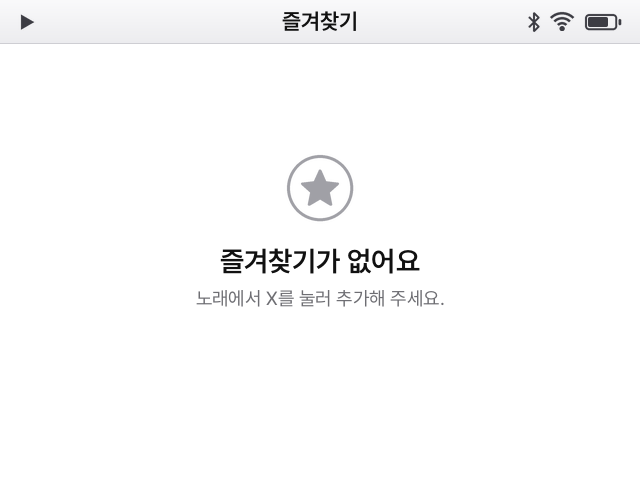
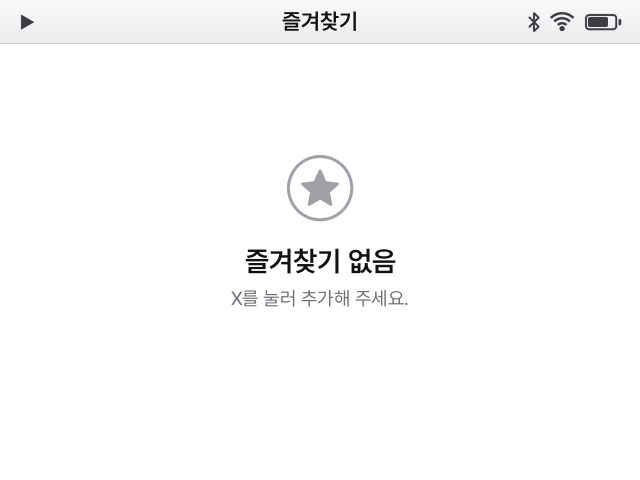
isopod: notices read as one family, and the radio says when it is Wi-Fi it lacks
In Korean an empty screen, a failure and a notice each had their own way of
ending a sentence. They now end on a noun: 음악 없음, 연결할 수 없음,
네트워크 지움, {n}분 뒤 음악 정지. The line under an empty library names only
the folder, and one line serves the favorites of songs and of stations. English
titles are capitalised alike.

A radio list, a search or a station that cannot be reached says Wi-Fi 연결 필요
when no network is joined, and 연결할 수 없음 when one is and nothing answers.

The 14 screens of docs/ui whose words changed were taken again, with the sheets
of their four tours.

Changed region(s): [[0.3125, 0.5, 0.6875, 0.6562]]

diff --git a/isopod/daemon/isopod/i18n.py b/isopod/daemon/isopod/i18n.py
@@ -17,49 +17,48 @@ STRINGS = {
     "all_songs": ("모든 노래", "All Songs"),
     "unknown_artist": ("알 수 없는 아티스트", "Unknown Artist"),
     "unknown_album": ("알 수 없는 앨범", "Unknown Album"),
-    "no_music_title": ("음악이 없어요", "No Music"),
-    "no_music_text": ("두 번째 SD 카드의 music 폴더에 음악을 넣어 주세요.",
-                      "Copy songs into the music folder of a second SD card."),
-    "empty_list": ("항목이 없어요", "Nothing Here"),
+    "no_music_title": ("음악 없음", "No Music"),
+    "no_music_text": ("music 폴더에 넣어 주세요.", "Copy songs into the music folder."),
+    "empty_list": ("항목 없음", "Nothing Here"),
     "play_next": ("다음에 재생", "Play Next"),
     "add_to_up_next": ("다음 재생 목록에 추가", "Add to Up Next"),
     "added_up_next": ("다음 재생에 추가됨", "Added to Up Next"),
     "go_to_album": ("앨범으로 이동", "Go to Album"),
     "favorites": ("즐겨찾기", "Favorites"),
     "favorite": ("즐겨찾기", "Favorite"),
-    "no_favorites_title": ("즐겨찾기가 없어요", "No Favorites"),
-    "no_favorites_text": ("노래에서 X를 눌러 추가해 주세요.", "Press X on a song to add it."),
+    "no_favorites_title": ("즐겨찾기 없음", "No Favorites"),
+    "no_favorites_text": ("X를 눌러 추가해 주세요.", "Press X to add one."),
 
-    "nothing_playing": ("재생 중인 항목이 없어요", "Nothing Playing"),
-    "no_lyrics": ("가사가 없어요", "No Lyrics"),
+    "nothing_playing": ("재생 중인 항목 없음", "Nothing Playing"),
+    "no_lyrics": ("가사 없음", "No Lyrics"),
     "shuffle": ("셔플", "Shuffle"),
     "repeat": ("반복", "Repeat"),
     "repeat_one": ("한 곡 반복", "Repeat One"),
 
     "search": ("검색", "Search"),
-    "no_results": ("결과가 없어요", "No Results"),
+    "no_results": ("결과 없음", "No Results"),
     "search_for": ("‘{q}’ 검색", "Search for “{q}”"),
     "search_music_prompt": ("아티스트, 앨범, 노래", "Artists, albums, songs"),
     "cover_flow": ("커버 플로우", "Cover Flow"),
     "sleep_timer": ("잠자기 타이머", "Sleep Timer"),
-    "sleep_timer_set": ("{n}분 뒤에 음악을 멈춰요", "Music stops in {n} min"),
+    "sleep_timer_set": ("{n}분 뒤 음악 정지", "Music Stops in {n} min"),
     "one_hour": ("1시간", "1 hour"),
     "battery_low": ("배터리 {n}% 남음", "{n}% Battery Remaining"),
 
     "popular": ("인기", "Popular"),
     "countries": ("국가", "Countries"),
     "search_radio_prompt": ("방송 이름", "Station name"),
-    "no_station_favorites_text": ("방송에서 X를 눌러 추가해 주세요.", "Press X on a station to add it."),
-    "radio_unreachable": ("연결할 수 없어요", "Couldn’t Connect"),
+    "radio_unreachable": ("연결할 수 없음", "Couldn’t Connect"),
+    "wifi_needed": ("Wi-Fi 연결 필요", "Wi-Fi Needed"),
     "live": ("라이브", "Live"),
 
-    "no_videos_title": ("비디오가 없어요", "No Videos"),
-    "no_videos_text": ("videos 폴더에 동영상을 넣어 주세요.", "Copy movies into the videos folder."),
-    "no_books_title": ("책이 없어요", "No Books"),
-    "no_books_text": ("books 폴더에 책을 넣어 주세요.", "Copy books into the books folder."),
+    "no_videos_title": ("비디오 없음", "No Videos"),
+    "no_videos_text": ("videos 폴더에 넣어 주세요.", "Copy movies into the videos folder."),
+    "no_books_title": ("책 없음", "No Books"),
+    "no_books_text": ("books 폴더에 넣어 주세요.", "Copy books into the books folder."),
     "opening": ("여는 중…", "Opening…"),
     "close_app": ("닫기", "Close"),
-    "app_failed": ("{name} 앱을 열 수 없어요", "Couldn’t Open {name}"),
+    "app_failed": ("{name} 열 수 없음", "Couldn’t Open {name}"),
 
     "wifi": ("Wi-Fi", "Wi-Fi"),
     "bluetooth": ("블루투스", "Bluetooth"),
@@ -74,19 +73,19 @@ STRINGS = {
     "searching": ("찾는 중…", "Searching…"),
 
     "saved_networks": ("저장된 네트워크", "Saved Networks"),
-    "no_saved_networks": ("저장된 네트워크가 없어요", "No Saved Networks"),
+    "no_saved_networks": ("저장된 네트워크 없음", "No Saved Networks"),
     "password_for": ("‘{ssid}’ 암호", "Password for “{ssid}”"),
     "wifi_connected": ("{ssid}에 연결됨", "Connected to {ssid}"),
-    "wifi_failed": ("{ssid}에 연결할 수 없어요", "Couldn’t join {ssid}"),
+    "wifi_failed": ("{ssid}에 연결할 수 없음", "Couldn’t Join {ssid}"),
     "forget": ("지우기", "Forget"),
-    "forgot_network": ("네트워크를 지웠어요", "Network Forgotten"),
+    "forgot_network": ("네트워크 지움", "Network Forgotten"),
 
     "my_devices": ("내 기기", "My Devices"),
     "other_devices": ("다른 기기", "Other Devices"),
     "bt_connected": ("{name} 연결됨", "{name} Connected"),
     "bt_disconnected": ("{name} 연결 끊김", "{name} Disconnected"),
-    "bt_failed": ("{name}에 연결할 수 없어요", "Couldn’t connect {name}"),
-    "forgot_device": ("기기를 지웠어요", "Device Forgotten"),
+    "bt_failed": ("{name}에 연결할 수 없음", "Couldn’t Connect {name}"),
+    "forgot_device": ("기기 지움", "Device Forgotten"),
     "connect": ("연결", "Connect"),
     "disconnect": ("연결 해제", "Disconnect"),
 

diff --git a/isopod/daemon/tests/test_protocols.py b/isopod/daemon/tests/test_protocols.py
@@ -567,8 +567,9 @@ class RadioPagesTest(unittest.IsolatedAsyncioTestCase):
         app.radio = Radio(d, d, directory=self.stations, download=lambda url: b"")
         app.radio.changed = lambda: app.page_changed("/radio")
         app.music.station_favorite = lambda station: app.radio.is_favorite(station.get("uuid"))
-        app.music.stream_failed = lambda: app.toast(app.t("radio_unreachable"))
         self.pages = Pages(app)
+        app.music.stream_failed = lambda: app.toast(self.pages.unreachable())
+        app.state.data["wifi"]["ssid"] = "Home"
         app.music.step_station = self.pages.step_station
         self.addCleanup(lambda: app.music._stream_watch and app.music._stream_watch.cancel())
 
@@ -603,6 +604,9 @@ class RadioPagesTest(unittest.IsolatedAsyncioTestCase):
         for path in ("/radio/top", "/radio/countries"):
             page = await self.pages.build(path)
             self.assertEqual((page["items"], page["empty"]["title"]), ([], "Couldn’t Connect"))
+        self.app.state.data["wifi"]["ssid"] = None
+        self.assertEqual((await self.pages.build("/radio/top"))["empty"]["title"], "Wi-Fi Needed",
+                         "with no network joined it says what is missing")
         self.stations.down = ()
         self.assertEqual(len(await self.rows("/radio/top")), 3)
         self.stations.down = ("/json/stations/search",)
@@ -1592,7 +1596,7 @@ class BluetoothTest(unittest.IsolatedAsyncioTestCase):
     async def test_a_failed_first_attempt_says_so_once_and_leaves_nothing_behind(self):
         self.bluez.errors["connect"] = ["org.bluez.Error.Failed -- br-connection-refused"] * 3
         await self.bt.activate(PODS)
-        self.assertEqual(self.events.toasts, ["AirPods Pro에 연결할 수 없어요"])
+        self.assertEqual(self.events.toasts, ["AirPods Pro에 연결할 수 없음"])
         self.assertEqual(len(self.connects()), 3)
         self.assertEqual(self.bluez.calls[-1], ("remove", PODS))
         self.assertEqual(self.events.found, [])
@@ -1602,14 +1606,14 @@ class BluetoothTest(unittest.IsolatedAsyncioTestCase):
         self.bluez.errors["connect"] = ["org.bluez.Error.Failed -- br-connection-page-timeout"]
         await self.bt.activate(PODS)
         self.assertEqual(len(self.connects()), 1)
-        self.assertEqual(self.events.toasts, ["AirPods Pro에 연결할 수 없어요"])
+        self.assertEqual(self.events.toasts, ["AirPods Pro에 연결할 수 없음"])
         self.assertIn(PODS, self.bluez.devices, "a device that was paired stays")
 
     async def test_a_link_that_drops_at_once_is_a_failure_said_once(self):
         self.bluez.drops.add(PODS)
         await self.bt.activate(PODS)
         self.assertEqual(len(self.connects()), 3)
-        self.assertEqual(self.events.toasts, ["AirPods Pro에 연결할 수 없어요"])
+        self.assertEqual(self.events.toasts, ["AirPods Pro에 연결할 수 없음"])
         self.assertIn(PODS, self.bluez.devices, "it did pair, so it stays to be tried again")
 
     async def test_headphones_that_connected_by_themselves_count(self):

diff --git a/isopod/daemon/isopod/pages.py b/isopod/daemon/isopod/pages.py
@@ -479,6 +479,10 @@ class Pages:
 
     # radio -------------------------------------------------------------------
 
+    def unreachable(self):
+        """Why the radio is out of reach: no Wi-Fi to reach it over, or no answer over it."""
+        return self.t("radio_unreachable" if self.app.state.get("wifi")["ssid"] else "wifi_needed")
+
     def _country(self, code):
         return country_name(code, self.t.lang) if code else None
 
@@ -539,10 +543,10 @@ class Pages:
                 return page(path, title, [item("c:" + c, n) for n, c in names], index=True)
             stations = await self._stations_for(rest)
         except RadioError:
-            return page(path, title, [], empty=empty("wifi", t("radio_unreachable")))
+            return page(path, title, [], empty=empty("wifi", self.unreachable()))
         if stations is None:
             return page(path, "", [])
-        nothing = {"favorites": empty("star", t("no_favorites_title"), t("no_station_favorites_text")),
+        nothing = {"favorites": empty("star", t("no_favorites_title"), t("no_favorites_text")),
                    "search": empty("search", t("no_results"))}.get(kind)
         about = {"genre": dict(genres=0), "country": dict(country=False, genres=2)}.get(kind, {})
         return page(path, title, self._station_items(path, stations, **about), rows="art", empty=nothing)

diff --git a/isopod/daemon/isopod/app.py b/isopod/daemon/isopod/app.py
@@ -42,7 +42,7 @@ class App:
         self.music = Music(MPD(args.mpd, args.mpd_port), self.state, args.cache, music_dir=args.music)
         self.music.song_changed = lambda: self.page_changed("/nowplaying", "/nowplaying/lyrics")
         self.music.favorites_changed = lambda: self.page_changed("/music/*")
-        self.music.stream_failed = lambda: self.toast(self.t("radio_unreachable"), "wifi")
+        self.music.stream_failed = lambda: self.toast(self.pages.unreachable(), "wifi")
         self.radio = Radio(args.config, args.cache)
         self.radio.changed = lambda: self.page_changed("/radio/*")
         self.music.station_favorite = lambda station: self.radio.is_favorite(station.get("uuid"))
